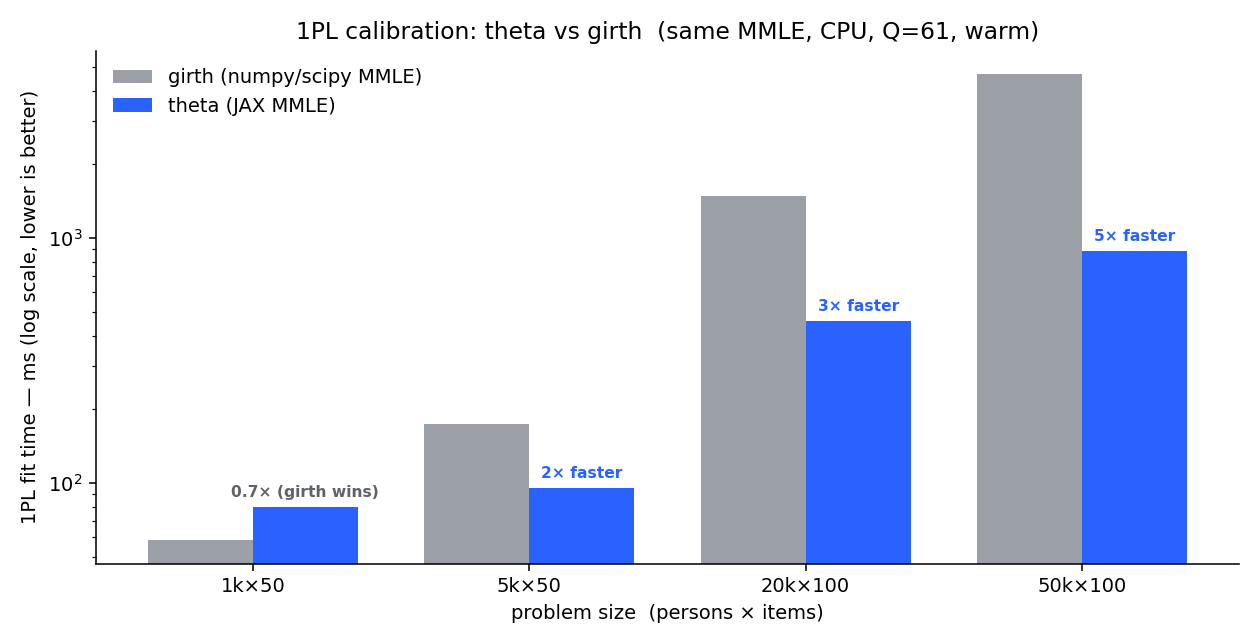
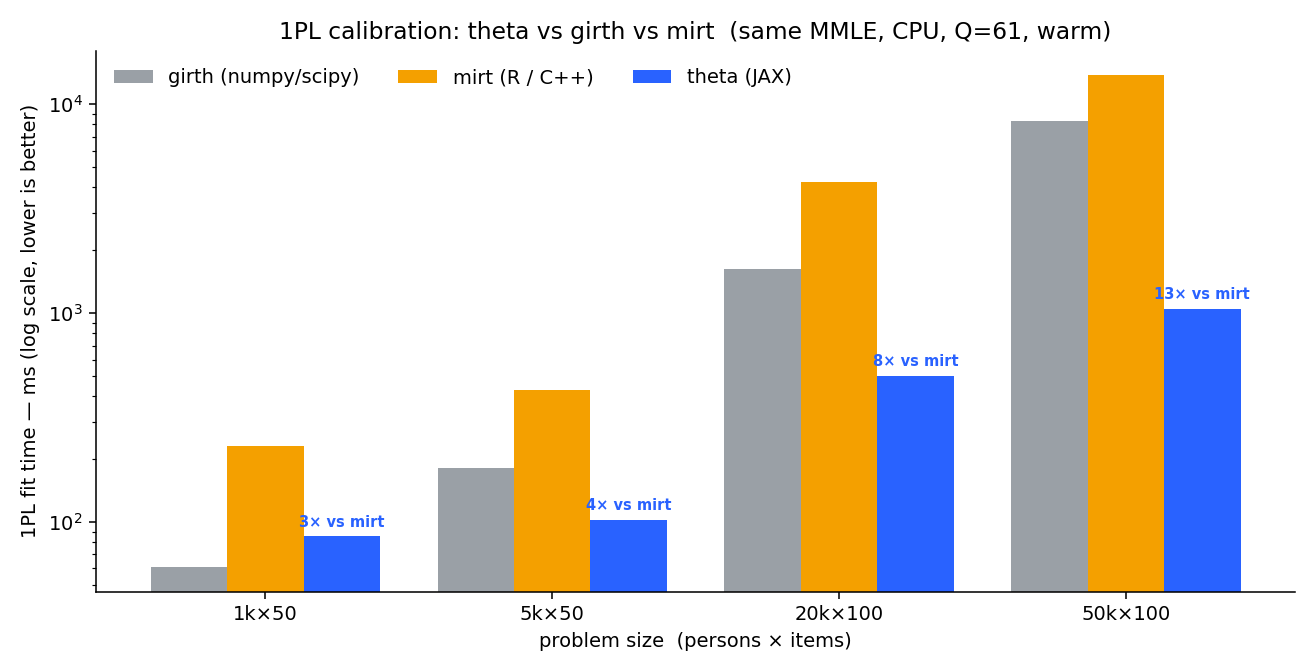
bench: add mirt (R/C++ reference) to a 3-way comparison
theta matches both girth and mirt to r=1.000 on 1PL/2PL while running
4-18x faster than mirt and 15-46x faster than girth on 2PL. Adds
bench/mirt_fit.R (fit-only timing; 1PL via an equal-slopes constraint),
generalizes compare.py to three competitors with graceful fallback when
R/mirt are absent, and updates the README tables and charts.

Changed region(s): [[0.0, 0.0932, 0.9905, 0.9627], [0.2167, 0.0311, 0.8357, 0.0621]]

diff --git a/bench/compare.py b/bench/compare.py
@@ -1,19 +1,30 @@
-"""Head-to-head: theta vs girth on 1PL / 2PL Marginal Maximum Likelihood.
+"""Head-to-head: theta vs girth vs mirt on 1PL / 2PL Marginal Maximum Likelihood.
 
-Both libraries estimate the *same* model by the *same* method (MMLE on a
-Gauss-Hermite grid, point estimates) so this is an apples-to-apples wall-clock
-comparison. We also check that the two agree on the recovered parameters, so the
-speed number is not bought with a worse fit, and report theta's convergence.
+All three estimate the *same* model by the *same* method (MMLE-EM on a
+Gauss-Hermite grid, point estimates), so this is apples-to-apples:
+
+  * theta  — JAX, this package
+  * girth  — numpy/scipy (Python)
+  * mirt   — R, C++ (Rcpp); the field's reference implementation
+
+mirt runs out-of-process through bench/mirt_fit.R, which times the fit only
+(R startup and CSV IO are excluded, just as theta/girth exclude data loading).
+If Rscript or the mirt package is missing, mirt is skipped and the comparison
+falls back to theta vs girth.
 
   uv run --group bench python bench/compare.py            # both models
   uv run --group bench python bench/compare.py 1PL        # one model
 
-Writes bench/benchmark_<model>.png (and benchmark.png for 2PL) + a markdown table.
+Writes bench/benchmark_<model>.png (+ benchmark.png for 2PL) and a markdown table.
 """
 
 from __future__ import annotations
 
+import os
+import shutil
+import subprocess
 import sys
+import tempfile
 import time
 
 import numpy as np
@@ -28,17 +39,47 @@ except ImportError:  # pragma: no cover
 N_GRID = [(1_000, 50), (5_000, 50), (20_000, 100), (50_000, 100)]
 QUAD = 61
 REPEAT = 3
+_MIRT_R = os.path.join(os.path.dirname(__file__), "mirt_fit.R")
 
+
+# --- competitors -----------------------------------------------------------
 
 def _girth_fit(model, Rt):
-    """Return (a, b) from girth for the given model; a is length n_items."""
     opts = {"quadrature_n": QUAD}
     n_items = Rt.shape[0]
     if model == "1PL":
-        r = onepl_mml(Rt, options=opts)              # one shared discrimination
+        r = onepl_mml(Rt, options=opts)
         return np.full(n_items, float(r["Discrimination"])), np.asarray(r["Difficulty"])
     r = twopl_mml(Rt, options=opts)
     return np.asarray(r["Discrimination"]), np.asarray(r["Difficulty"])
+
+
+def _mirt_available():
+    if shutil.which("Rscript") is None:
+        return False
+    r = subprocess.run(["Rscript", "-e", 'cat(requireNamespace("mirt", quietly=TRUE))'],
+                       capture_output=True, text=True)
+    return "TRUE" in r.stdout
+
+
+def _mirt_fit(model, R):
+    """Returns (fit_time_seconds, a, b, converged) via the R harness."""
+    with tempfile.TemporaryDirectory() as d:
+        data_csv, out_csv = os.path.join(d, "data.csv"), os.path.join(d, "params.csv")
+        np.savetxt(data_csv, R.astype(int), fmt="%d", delimiter=",")
+        r = subprocess.run(
+            ["Rscript", _MIRT_R, data_csv, model, out_csv, str(QUAD), str(REPEAT)],
+            capture_output=True, text=True)
+        if r.returncode != 0:
+            raise RuntimeError("mirt failed:\n" + r.stderr[-1500:])
+        t = conv = None
+        for line in r.stdout.splitlines():
+            if line.startswith("TIME "):
+                t = float(line.split()[1])
+            elif line.startswith("CONVERGED "):
+                conv = line.split()[1] == "TRUE"
+        p = np.genfromtxt(out_csv, delimiter=",", names=True)
+        return t, np.atleast_1d(p["a"]), np.atleast_1d(p["b"]), conv
 
 
 def _time(fn, repeat=REPEAT):
@@ -52,9 +93,13 @@ def _once(fn):
     return time.perf_counter() - t0
 
 
+# --- driver ----------------------------------------------------------------
+
 def run(models=("1PL", "2PL"), grid=N_GRID):
     if twopl_mml is None:
         raise SystemExit("girth not installed; run `uv add --group bench girth`")
+    has_mirt = _mirt_available()
+    print(f"competitors: theta, girth{', mirt' if has_mirt else '  (mirt unavailable, skipping)'}")
 
     for model in models:
         print(f"\n### {model}")
@@ -62,85 +107,100 @@ def run(models=("1PL", "2PL"), grid=N_GRID):
         for n, j in grid:
             sim = theta.simulate(n, j, model, seed=0)
             R = sim.responses
-            Rt = R.T.astype(np.int64)  # girth wants [items x participants]
+            Rt = R.T.astype(np.int64)
             out = {}
 
-            def fit_theta():
-                m = theta.fit(R, model, n_points=QUAD)
-                out["m"] = m
-
-            def fit_girth():
-                out["g"] = _girth_fit(model, Rt)
-
-            t_theta = _time(fit_theta)
-            t_girth = _time(fit_girth)
-
+            t_theta = _time(lambda: out.__setitem__("m", theta.fit(R, model, n_points=QUAD)))
+            t_girth = _time(lambda: out.__setitem__("g", _girth_fit(model, Rt)))
             m = out["m"]
-            a_t, b_t = np.asarray(m.a), np.asarray(m.b)
+            b_t = np.asarray(m.b)
             a_g, b_g = out["g"]
-            agree_b = float(np.corrcoef(b_t, b_g)[0, 1])
-            # 1PL slope is a single shared scalar -> compare values, not correlation
-            agree_a = (float(np.corrcoef(a_t, a_g)[0, 1]) if model != "1PL"
-                       else 1.0 - abs(a_t[0] - a_g[0]) / a_g[0])
+            row = dict(n=n, j=j, t_theta=t_theta, t_girth=t_girth,
+                       sp_girth=t_girth / t_theta, converged=m.converged, iters=m.n_iter,
+                       agree_girth=float(np.corrcoef(b_t, b_g)[0, 1]))
 
-            rows.append(dict(n=n, j=j, t_theta=t_theta, t_girth=t_girth,
-                             speedup=t_girth / t_theta, agree_a=agree_a, agree_b=agree_b,
-                             converged=m.converged, iters=m.n_iter))
-            aname = "a agree" if model != "1PL" else "a rel"
-            print(f"N={n:>6,} J={j:>3}: theta={t_theta*1e3:8.1f} ms  girth={t_girth*1e3:9.1f} ms  "
-                  f"{t_girth/t_theta:5.1f}x  conv={m.converged}/{m.n_iter:<3} "
-                  f"{aname}={agree_a:.3f} b corr={agree_b:.3f}")
+            if has_mirt:
+                t_m, a_m, b_m, conv_m = _mirt_fit(model, R)
+                row.update(t_mirt=t_m, sp_mirt=t_m / t_theta,
+                           agree_mirt=float(np.corrcoef(b_t, b_m)[0, 1]))
 
-        _print_table(model, rows)
-        path = f"bench/benchmark_{model.lower()}.png"
-        _make_chart(model, rows, path)
+            rows.append(row)
+            extra = (f"  mirt={row['t_mirt']*1e3:9.1f} ms ({row['sp_mirt']:.1f}x, "
+                     f"b corr={row['agree_mirt']:.3f})") if has_mirt else ""
+            print(f"N={n:>6,} J={j:>3}: theta={t_theta*1e3:8.1f} ms  "
+                  f"girth={t_girth*1e3:9.1f} ms ({row['sp_girth']:.1f}x)"
+                  f"{extra}  conv={m.converged}/{m.n_iter}")
+
+        _print_table(model, rows, has_mirt)
+        _make_chart(model, rows, f"bench/benchmark_{model.lower()}.png", has_mirt)
         if model == "2PL":
-            _make_chart(model, rows, "bench/benchmark.png")
+            _make_chart(model, rows, "bench/benchmark.png", has_mirt)
 
 
-def _print_table(model, rows):
-    print(f"\n| {model} size (N×J) | theta | girth | speedup | theta converged | param agreement (a, b) |")
-    print("|---|--:|--:|--:|:--:|--:|")
+def _print_table(model, rows, has_mirt):
+    head = "| size (N×J) | theta | girth | "
+    head += "mirt | " if has_mirt else ""
+    head += "speedup | converged | b agreement |"
+    print("\n" + head)
+    print("|---|--:|--:|" + ("--:|" if has_mirt else "") + "--:|:--:|--:|")
     for r in rows:
+        mirt_cell = f" {r['t_mirt']*1e3:.0f} ms |" if has_mirt else ""
+        if has_mirt:
+            sp = f"**{r['sp_mirt']:.1f}× vs mirt**, {r['sp_girth']:.0f}× vs girth"
+            agree = f"{r['agree_mirt']:.3f} (mirt), {r['agree_girth']:.3f} (girth)"
+        else:
+            sp = f"**{r['sp_girth']:.1f}×**"
+            agree = f"{r['agree_girth']:.3f}"
         print(f"| {r['n']:,} × {r['j']} | **{r['t_theta']*1e3:.0f} ms** | "
-              f"{r['t_girth']*1e3:.0f} ms | **{r['speedup']:.1f}×** | "
-              f"{'yes' if r['converged'] else 'NO'} ({r['iters']} it) | "
-              f"{r['agree_a']:.3f}, {r['agree_b']:.3f} |")
+              f"{r['t_girth']*1e3:.0f} ms |{mirt_cell} {sp} | "
+              f"{'yes' if r['converged'] else 'NO'} ({r['iters']} it) | {agree} |")
 
 
-def _make_chart(model, rows, path):
+def _make_chart(model, rows, path, has_mirt):
     import matplotlib
     matplotlib.use("Agg")
     import matplotlib.pyplot as plt
 
-    labels = [f"{r['n']//1000}k×{r['j']}" for r in rows]
-    theta_ms = [r["t_theta"] * 1e3 for r in rows]
-    girth_ms = [r["t_girth"] * 1e3 for r in rows]
-    x = np.arange(len(labels))
-    w = 0.38
+    series = [("girth (numpy/scipy)", "t_girth", "#9aa0a6")]
+    if has_mirt:
+        series.append(("mirt (R / C++)", "t_mirt", "#f4a000"))
+    series.append(("theta (JAX)", "t_theta", "#2962ff"))
 
-    fig, ax = plt.subplots(figsize=(9, 4.6), dpi=140)
-    ax.bar(x - w / 2, girth_ms, w, label="girth (numpy/scipy MMLE)", color="#9aa0a6")
-    ax.bar(x + w / 2, theta_ms, w, label="theta (JAX MMLE)", color="#2962ff")
+    labels = [f"{r['n']//1000}k×{r['j']}" for r in rows]
+    x = np.arange(len(labels))
+    n = len(series)
+    w = 0.8 / n
+
+    fig, ax = plt.subplots(figsize=(9.4, 4.8), dpi=140)
+    for i, (label, key, color) in enumerate(series):
+        vals = [r[key] * 1e3 for r in rows]
+        ax.bar(x + (i - (n - 1) / 2) * w, vals, w, label=label, color=color)
+
+    # annotate theta with its speedup over the strongest baseline present (mirt)
+    base = "sp_mirt" if has_mirt else "sp_girth"
+    base_name = "mirt" if has_mirt else "girth"
+    theta_off = ((n - 1) - (n - 1) / 2) * w
+    for r, xi in zip(rows, x):
+        s = r[base]
+        if s >= 1.5:
+            txt, col = f"{s:.0f}× vs {base_name}", "#2962ff"
+        elif s >= 1.05:
+            txt, col = f"{s:.1f}× vs {base_name}", "#2962ff"
+        elif s >= 0.9:
+            txt, col = f"≈ {base_name}", "#5f6368"
+        else:
+            txt, col = f"{s:.1f}× ({base_name} wins)", "#5f6368"
+        ax.annotate(txt, (xi + theta_off, r["t_theta"] * 1e3), textcoords="offset points",
+                    xytext=(0, 5), ha="center", fontsize=7.5, color=col, fontweight="bold")
+
     ax.set_yscale("log")
     ax.set_ylabel(f"{model} fit time — ms (log scale, lower is better)")
     ax.set_xlabel("problem size  (persons × items)")
-    ax.set_title(f"{model} calibration: theta vs girth  (same MMLE, CPU, Q=61, warm)")
+    title = f"{model} calibration: theta vs girth" + (" vs mirt" if has_mirt else "")
+    ax.set_title(f"{title}  (same MMLE, CPU, Q=61, warm)")
     ax.set_xticks(x, labels)
-    ax.legend(frameon=False)
+    ax.legend(frameon=False, ncol=n)
     ax.spines[["top", "right"]].set_visible(False)
-    for r, xi, t in zip(rows, x, theta_ms):
-        s = r["speedup"]
-        if s >= 1.5:
-            txt, col = f"{s:.0f}× faster", "#2962ff"
-        elif s >= 1.1:
-            txt, col = f"{s:.1f}× faster", "#2962ff"
-        elif s >= 0.9:
-            txt, col = "≈ same", "#5f6368"
-        else:
-            txt, col = f"{s:.1f}× (girth wins)", "#5f6368"
-        ax.annotate(txt, (xi + w / 2, t), textcoords="offset points",
-                    xytext=(0, 5), ha="center", fontsize=8, color=col, fontweight="bold")
     fig.tight_layout()
     fig.savefig(path)
     print(f"wrote {path}")

diff --git a/README.md b/README.md
@@ -21,40 +21,43 @@ errs = model.standard_errors(responses)
 
 ## Benchmark
 
-`theta` and [`girth`](https://github.com/eribean/girth) fit the **same** model by
-the **same** method — Marginal Maximum Likelihood on a 61-point Gauss–Hermite
-grid — so this is apples-to-apples. At every size both libraries **converge** and
-recover **identical parameters** (Pearson r = 1.000), so the speed is not bought
-with a worse fit. CPU (Apple M-series), `Q = 61`, warm (JIT already compiled);
-log scale, lower is better. Reproduce with
+`theta`, [`girth`](https://github.com/eribean/girth) (numpy/scipy), and
+[`mirt`](https://github.com/philchalmers/mirt) (R, C++ — the field's reference
+implementation) fit the **same** model by the **same** method: Marginal Maximum
+Likelihood on a 61-point Gauss–Hermite grid. So this is apples-to-apples, and
+all three **converge** to **identical parameters** (Pearson r = 1.000 against
+both) — the speed is not bought with a worse fit. `theta` beats the optimized
+C++ reference by **4–18×** on 2PL. CPU (Apple M-series), `Q = 61`, warm (JIT
+already compiled); log scale, lower is better. Reproduce with
 `uv run --group bench python bench/compare.py`.
 
-### 2PL — `theta` is 15–50× faster, and the gap widens with scale
+### 2PL — `theta` is 4–18× faster than mirt, 15–46× faster than girth
 
-![2PL calibration: theta vs girth](https://raw.githubusercontent.com/vuciv/theta/main/bench/benchmark.png)
+![2PL calibration: theta vs girth vs mirt](https://raw.githubusercontent.com/vuciv/theta/main/bench/benchmark.png)
 
-| size (persons × items) | theta | girth | speedup | param agreement (a, b) |
-|---|--:|--:|--:|--:|
-| 1,000 × 50    | **61 ms**  | 923 ms  | **15×** | 1.000, 1.000 |
-| 5,000 × 50    | **88 ms**  | 2.3 s   | **26×** | 1.000, 1.000 |
-| 20,000 × 100  | **0.44 s** | 22.9 s  | **52×** | 1.000, 1.000 |
-| 50,000 × 100  | **1.0 s**  | 47.6 s  | **47×** | 1.000, 1.000 |
+| size (persons × items) | theta | mirt (C++) | girth | vs mirt | vs girth |
+|---|--:|--:|--:|--:|--:|
+| 1,000 × 50    | **59 ms**  | 261 ms  | 888 ms  | **4.4×** | 15× |
+| 5,000 × 50    | **92 ms**  | 875 ms  | 2.3 s   | **9.5×** | 25× |
+| 20,000 × 100  | **0.51 s** | 6.4 s   | 23.4 s  | **12.5×** | 46× |
+| 50,000 × 100  | **1.1 s**  | 20.5 s  | 49.7 s  | **18.3×** | 44× |
 
-### 1PL — converges everywhere, faster at scale
+### 1PL — converges everywhere, 3–13× faster than mirt
 
-`theta`'s 1PL estimates a single shared discrimination plus per-item difficulty.
-girth's 1PL/Rasch routine is lightweight, so the two are roughly even on small
-problems; `theta` pulls ahead as the matrix grows (up to ~5× at 50k×100). Every
-fit **converges** (32–50 EM iterations) and matches girth's parameters exactly.
+`theta`'s 1PL estimates a single shared discrimination plus per-item difficulty
+(mirt fit with an equal-slopes constraint to match). Every fit **converges**
+(32–50 EM iterations) with parameters identical to both references. girth's
+1PL/Rasch routine is lightweight enough to edge `theta` on the smallest problem;
+`theta` pulls away with scale.
 
-![1PL calibration: theta vs girth](https://raw.githubusercontent.com/vuciv/theta/main/bench/benchmark_1pl.png)
+![1PL calibration: theta vs girth vs mirt](https://raw.githubusercontent.com/vuciv/theta/main/bench/benchmark_1pl.png)
 
-| size (persons × items) | theta | girth | speedup | converged | param agreement (a, b) |
-|---|--:|--:|--:|:--:|--:|
-| 1,000 × 50    | 80 ms      | **58 ms** | 0.7×    | yes (37 it) | 1.000, 1.000 |
-| 5,000 × 50    | **96 ms**  | 174 ms    | **1.8×** | yes (32 it) | 1.000, 1.000 |
-| 20,000 × 100  | **0.46 s** | 1.5 s     | **3.2×** | yes (49 it) | 0.999, 1.000 |
-| 50,000 × 100  | **0.89 s** | 4.7 s     | **5.3×** | yes (50 it) | 0.999, 1.000 |
+| size (persons × items) | theta | mirt (C++) | girth | vs mirt | converged |
+|---|--:|--:|--:|--:|:--:|
+| 1,000 × 50    | 85 ms      | 232 ms  | **61 ms** | **2.7×** | yes (37 it) |
+| 5,000 × 50    | **103 ms** | 430 ms  | 181 ms    | **4.2×** | yes (32 it) |
+| 20,000 × 100  | **0.50 s** | 4.2 s   | 1.6 s     | **8.4×** | yes (49 it) |
+| 50,000 × 100  | **1.05 s** | 13.8 s  | 8.3 s     | **13.1×** | yes (50 it) |
 
 **`theta` scaling on its own** (2PL, 50 items, warm): **100k** persons in 0.9 s,
 **500k** in 4.8 s — roughly **5M responses/s** on a laptop CPU, and the identical
@@ -104,7 +107,7 @@ git clone https://github.com/vuciv/theta && cd theta
 uv sync                                        # create .venv + install theta and deps
 uv run pytest                                  # run the test suite
 uv run python bench/benchmark.py               # scaling benchmark
-uv run --group bench python bench/compare.py   # head-to-head vs girth (+ chart)
+uv run --group bench python bench/compare.py   # vs girth (+ mirt if R/mirt installed)
 
 uv build                                       # wheel + sdist into dist/
 uv publish                                     # upload to PyPI (set UV_PUBLISH_TOKEN)
